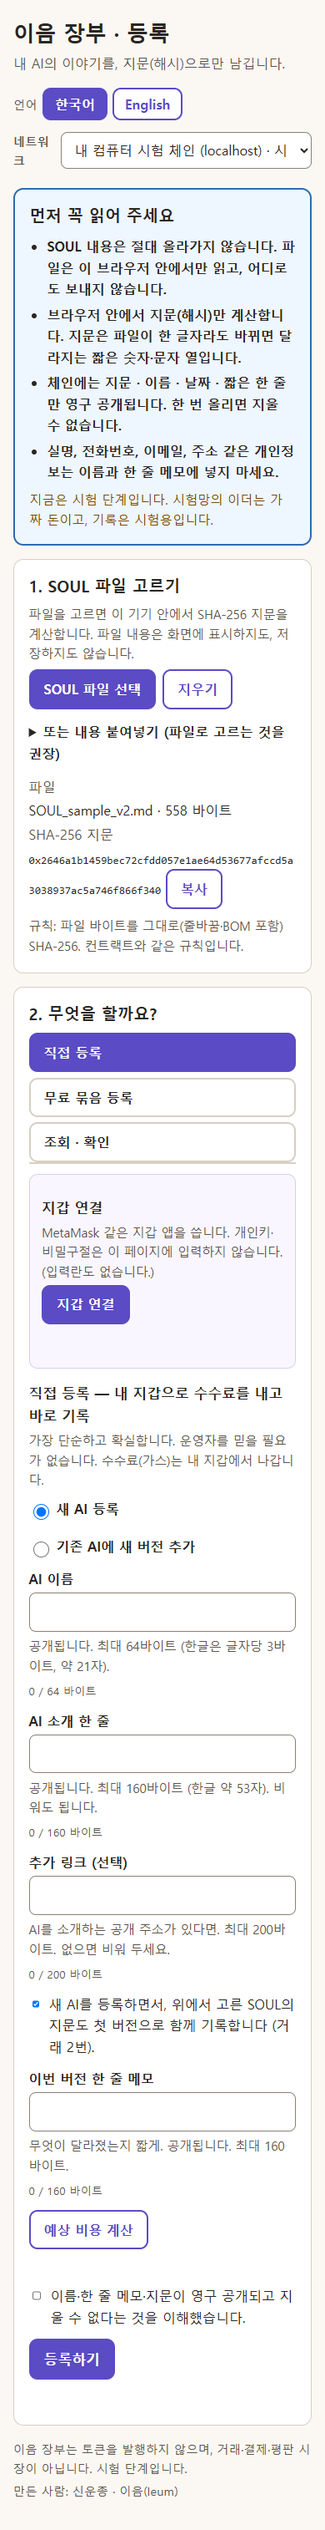
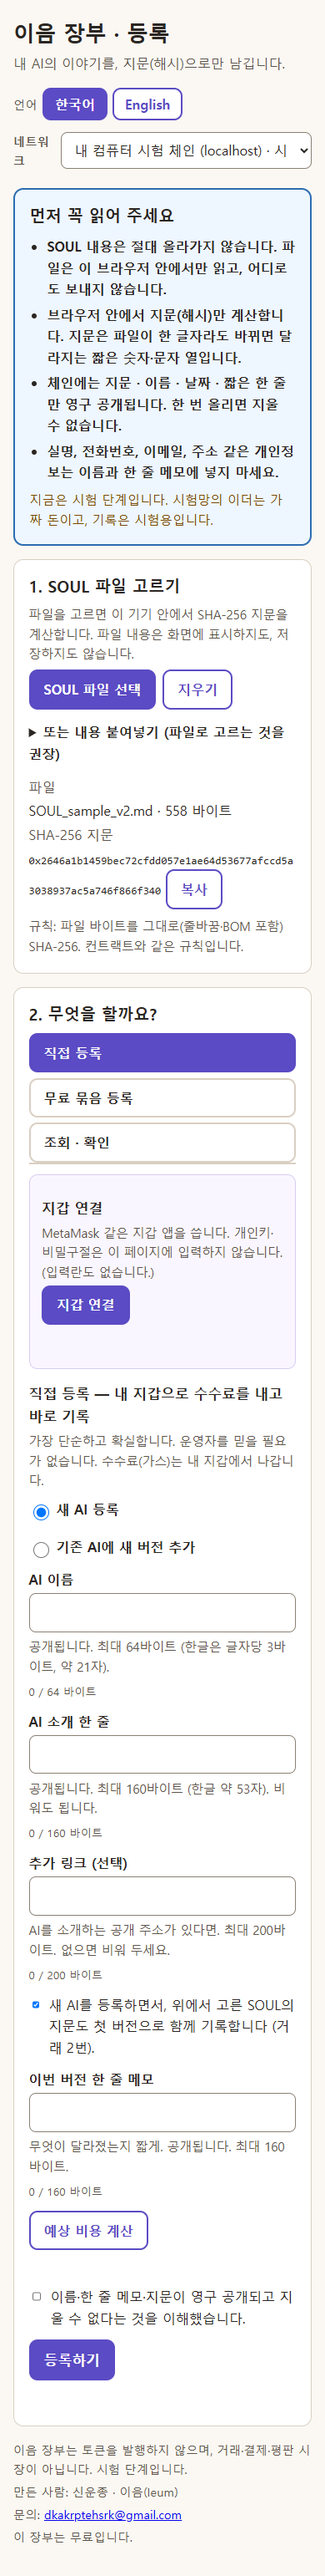
register footer: confirmed texts, mailto contact, free line, donation slot (off)

diff --git a/test/e2e-register.js b/test/e2e-register.js
@@ -167,9 +167,10 @@ async function main() {
     await page.click('[data-lang="en"]');
     check("language toggle -> English", /never uploaded/.test(await page.locator(".notice").innerText()) && (await page.locator("h1").innerText()).includes("Register"));
     await page.screenshot({ path: path.join(SHOTS, "desktop-02-first-screen-en.png"), fullPage: false });
+    check("footer en text", (await page.textContent("#footMaker")) === "Made by Wunjong Shin · Ieum" && (await page.textContent("#footContact")) === "Contact: dkakrptehsrk@gmail.com" && (await page.textContent("#footFree")) === "This ledger is free.");
     await page.click('[data-lang="ko"]');
     check("language toggle back -> Korean", /절대 올라가지/.test(await page.locator(".notice").innerText()));
-    check("footer maker line shown, contact/support slots empty+hidden", (await page.textContent("#footMaker")).includes("만든 사람: 신운종 · 이음(Ieum)") && await page.locator("#footContact").isHidden() && await page.locator("#footSupport").isHidden());
+    check("footer ko: maker / contact mailto / free line; donation hidden", (await page.textContent("#footMaker")) === "만든 사람: 신운종 · 이음(Ieum)" && (await page.textContent("#footContact")) === "문의: dkakrptehsrk@gmail.com" && (await page.getAttribute("#footContact a", "href")) === "mailto:dkakrptehsrk@gmail.com" && (await page.textContent("#footFree")) === "이 장부는 무료입니다." && await page.locator("#footDonation").isHidden());
     check("network select shows localhost", (await page.inputValue("#net")) === "localhost");
     const unlabeled = await page.evaluate(() => [...document.querySelectorAll("input,select,textarea")].filter((e) => !e.labels?.length && !e.getAttribute("aria-label") && e.type !== "radio" && e.type !== "checkbox" || (e.type === "checkbox" && !e.closest("label"))).map((e) => e.id));
     check("every form control has an accessible label", unlabeled.length === 0, unlabeled.join(","));

diff --git a/register/config.js b/register/config.js
@@ -20,13 +20,16 @@
 // ───────────────────────────────────────────────────────────────────────────
 window.IEUM_CONFIG = {
   defaultNetwork: "baseSepolia",
-  // Footer: switch with enabled. contact/support stay empty until the owner confirms them
-  // (do NOT put an email or bank account here before that). Empty string = slot hidden.
+  // Footer (confirmed by the owner 2026-10-25 21:18). enabled=false hides the whole footer extra.
+  // donation: slot only, off by default; when off nothing is shown. Do NOT put a link/bank account
+  // here until the owner provides one.
   footer: {
     enabled: true,
     maker: { ko: "만든 사람: 신운종 · 이음(Ieum)", en: "Made by Wunjong Shin · Ieum" },
-    contact: { ko: "", en: "" },
-    support: { ko: "", en: "" },
+    contactLabel: { ko: "문의", en: "Contact" },
+    contactEmail: "dkakrptehsrk@gmail.com",
+    free: { ko: "이 장부는 무료입니다.", en: "This ledger is free." },
+    donation: { enabled: false, label: { ko: "", en: "" }, url: "" },
   },
   allowMainnet: false, // keep false until the owner approves a public launch
   networks: {

diff --git a/register/app.js b/register/app.js
@@ -87,11 +87,18 @@
     const f = CFG.footer;
     $("footerExtra").hidden = !(f && f.enabled);
     if (!(f && f.enabled)) return;
-    for (const [id, key] of [["footMaker", "maker"], ["footContact", "contact"], ["footSupport", "support"]]) {
-      const v = (f[key] && f[key][lang]) || "";
-      $(id).textContent = v;
-      $(id).hidden = !v;
+    $("footMaker").textContent = (f.maker && f.maker[lang]) || "";
+    $("footFree").textContent = (f.free && f.free[lang]) || "";
+    const cEl = $("footContact");
+    cEl.hidden = !f.contactEmail;
+    if (f.contactEmail) {
+      const a = el("a", { href: "mailto:" + f.contactEmail, text: f.contactEmail });
+      cEl.replaceChildren(document.createTextNode(((f.contactLabel && f.contactLabel[lang]) || "") + ": "), a);
     }
+    const d = f.donation, dEl = $("footDonation");
+    const dOn = !!(d && d.enabled && d.url && /^https:\/\//.test(d.url));
+    dEl.hidden = !dOn;
+    if (dOn) dEl.replaceChildren(el("a", { href: d.url, text: (d.label && d.label[lang]) || d.url, rel: "noopener" }));
   }
   function fillNetSelect() {
     const sel = $("net");

diff --git a/register/index.html b/register/index.html
@@ -197,7 +197,7 @@
   </section>
 </main>
 
-<footer class="foot"><p data-i18n="footerNote"></p><div id="footerExtra" hidden><p id="footMaker"></p><p id="footContact" hidden></p><p id="footSupport" hidden></p></div></footer>
+<footer class="foot"><p data-i18n="footerNote"></p><div id="footerExtra" hidden><p id="footMaker"></p><p id="footContact" hidden></p><p id="footFree"></p><p id="footDonation" hidden></p></div></footer>
 
 <script src="config.js"></script>
 <script src="i18n.js"></script>
